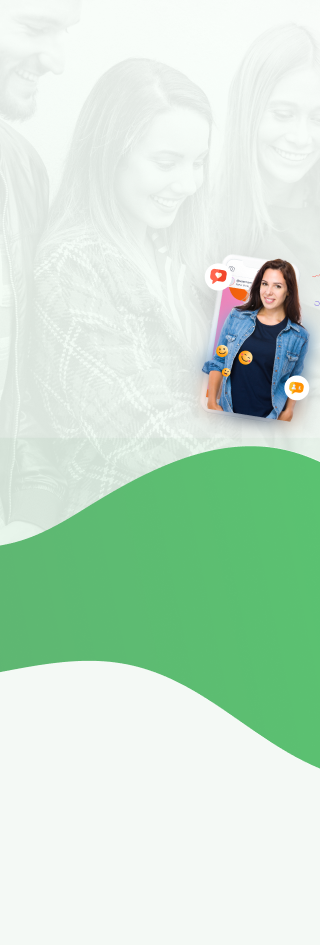
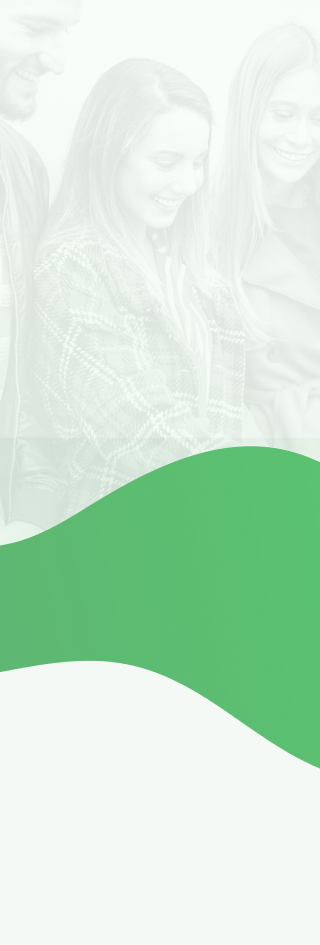
anim added

Changed region(s): [[0.5938, 0.2762, 1.0, 0.4603]]

diff --git a/assets/css/banner_sect.css b/assets/css/banner_sect.css
@@ -11,6 +11,19 @@
         top: 50%;
     }
 }
+@keyframes bg_img1_anim {
+    from {
+        transform: rotate(0deg);
+    }
+
+    50% {
+        transform: rotate(5deg);
+    }
+
+    to {
+        transform: rotate(0deg);
+    }
+}
 .banner_sect {
     margin: -9em 0 0;
     padding: 12.125em 0 7em;
@@ -26,9 +39,16 @@
     top: 28em;
     left: 70%;
 }
+.banner_sect .wrap {
+    position: relative;
+    z-index: 1;
+}
 .banner_sect .bg_img1 {
     display: block;
     width: 44.75em;
+    animation-name: bg_img1_anim;
+    animation-duration: 3s;
+    animation-iteration-count: infinite;
 }
 .banner_sect .bg_img2 {
     position: absolute;
@@ -38,8 +58,6 @@
     left: 48%;
     animation-name: bg_img2_anim;
     animation-duration: 3s;
-    /*animation-delay: 0.3s;
-    animation-fill-mode: both;*/
     animation-iteration-count: infinite;
 }
 .banner_sect .row1 {
@@ -114,6 +132,9 @@
         padding: 12.75em 0 2.75em;
         margin: -7.5em 0 0;
     }
+    .banner_sect .bg_img_wrap {
+        left: 83%;
+    }
     .banner_sect .row1 {
         max-width: 21.75em;
         margin: 0 0 15.25em;
@@ -133,6 +154,13 @@
         margin-top: -5.25em;
         background-image: url(/img/banners_sect/bg-mob.png);
         padding: 6.875em 0 3.75em;
+    }
+    .banner_sect .bg_img_wrap {
+        top: 20em;
+        left: 80%;
+    }
+    .banner_sect .bg_img1 {
+        width: 12em;
     }
     .banner_sect .row1 {
         max-width: 100%;
